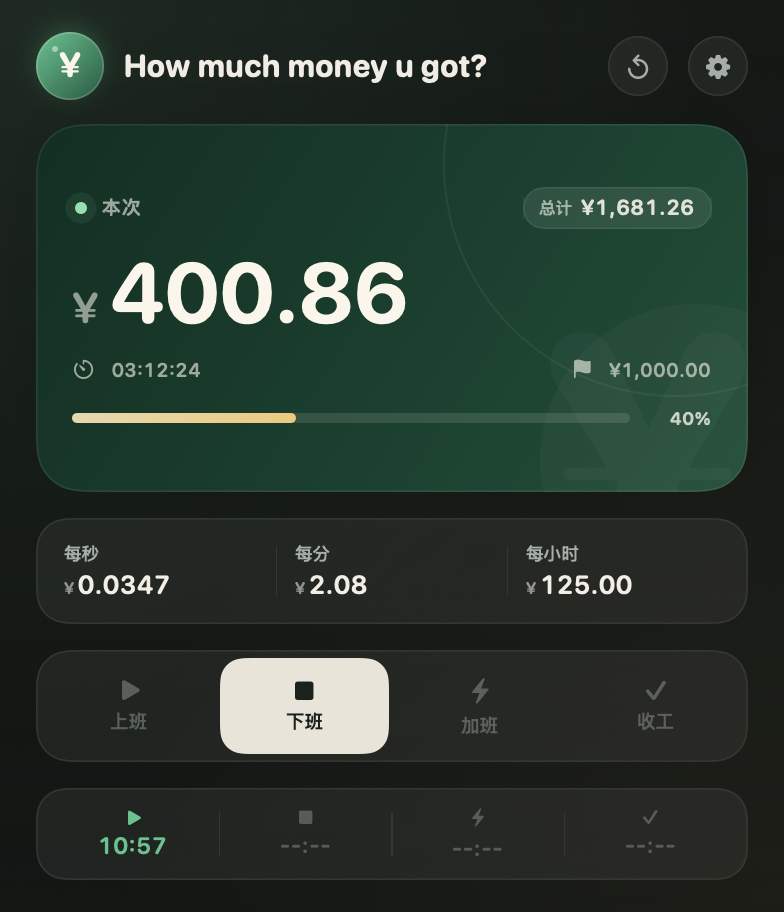
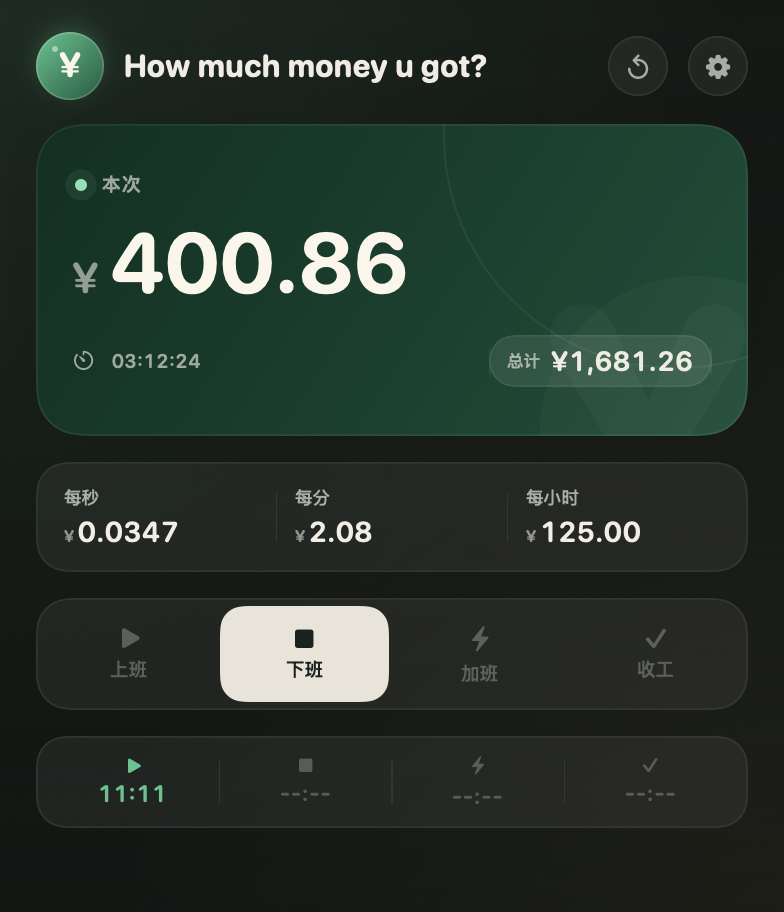
Keep persistent total visible across sessions

diff --git a/Sources/HowMuchApp/DashboardView.swift b/Sources/HowMuchApp/DashboardView.swift
@@ -72,8 +72,7 @@ struct DashboardView: View {
     // MARK: - Money
 
     private var heroCard: some View {
-        let progress = cardProgress
-        return ZStack {
+        ZStack {
             RoundedRectangle(cornerRadius: 23, style: .continuous)
                 .fill(
                     LinearGradient(
@@ -109,33 +108,8 @@ struct DashboardView: View {
                         .foregroundStyle(Palette.heroMuted)
 
                     Spacer(minLength: 4)
-
-                    HStack(spacing: 4) {
-                        Text(model.t(.totalLabel))
-                            .font(.system(size: 8.5, weight: .medium, design: .rounded))
-                            .foregroundStyle(Palette.heroMuted)
-                        Text(model.money(model.totalEarned))
-                            .font(.system(size: 10.5, weight: .semibold, design: .rounded).monospacedDigit())
-                            .foregroundStyle(Palette.heroText.opacity(0.88))
-                            .lineLimit(1)
-                            .minimumScaleFactor(0.72)
-                    }
-                    .padding(.horizontal, 8)
-                    .padding(.vertical, 4)
-                    .background(
-                        Capsule()
-                            .fill(Color.white.opacity(0.09))
-                            .overlay(
-                                Capsule()
-                                    .strokeBorder(Color.white.opacity(0.07), lineWidth: 0.7)
-                            )
-                    )
-                    .accessibilityElement(children: .ignore)
-                    .accessibilityLabel(
-                        "\(model.t(.totalLabel)) \(model.money(model.totalEarned))"
-                    )
                 }
-                .padding(.bottom, 6)
+                .padding(.bottom, 7)
 
                 HStack(alignment: .firstTextBaseline, spacing: 5) {
                     Text(model.currency.symbol)
@@ -147,7 +121,7 @@ struct DashboardView: View {
                         .lineLimit(1)
                         .minimumScaleFactor(0.55)
                 }
-                .padding(.bottom, 8)
+                .padding(.bottom, 12)
                 .accessibilityElement(children: .ignore)
                 .accessibilityLabel(
                     "\(model.t(.earnedThisSession)) \(model.money(snapshot.total))"
@@ -155,55 +129,46 @@ struct DashboardView: View {
 
                 HStack(spacing: 8) {
                     Label(Fmt.duration(snapshot.totalSeconds), systemImage: "timer")
+                        .font(.system(size: 9.5, weight: .medium, design: .rounded).monospacedDigit())
+                        .foregroundStyle(Palette.heroMuted)
+
                     Spacer(minLength: 6)
-                    Label(model.money(model.settings.dailyPay), systemImage: "flag.fill")
-                }
-                .font(.system(size: 9.5, weight: .medium, design: .rounded).monospacedDigit())
-                .foregroundStyle(Palette.heroMuted)
-                .padding(.bottom, 12)
-                .accessibilityElement(children: .ignore)
-                .accessibilityLabel(
-                    "\(model.t(.dailyTarget)) \(model.money(model.settings.dailyPay))"
-                )
 
-                HStack(spacing: 9) {
-                    GeometryReader { proxy in
-                        ZStack(alignment: .leading) {
-                            Capsule()
-                                .fill(Palette.heroText.opacity(0.12))
-                            Capsule()
-                                .fill(
-                                    LinearGradient(
-                                        colors: [Color(hex: 0xE9D8A9), Color(hex: 0xF3C873)],
-                                        startPoint: .leading,
-                                        endPoint: .trailing
-                                    )
-                                )
-                                .frame(width: max(0, proxy.size.width * min(progress, 1)))
-                        }
+                    HStack(spacing: 5) {
+                        Text(model.t(.totalLabel))
+                            .font(.system(size: 8.5, weight: .medium, design: .rounded))
+                            .foregroundStyle(Palette.heroMuted)
+                        Text(model.money(model.totalEarned))
+                            .font(.system(size: 13.5, weight: .semibold, design: .rounded).monospacedDigit())
+                            .foregroundStyle(Palette.heroText.opacity(0.94))
+                            .lineLimit(1)
+                            .minimumScaleFactor(0.7)
                     }
-                    .frame(height: 5)
-
-                    Text("\(Int(min(progress, 9.99) * 100))%")
-                        .font(.system(size: 9, weight: .semibold, design: .rounded).monospacedDigit())
-                        .foregroundStyle(Palette.heroText.opacity(0.78))
-                        .frame(width: 32, alignment: .trailing)
+                    .padding(.horizontal, 9)
+                    .padding(.vertical, 5)
+                    .background(
+                        Capsule()
+                            .fill(Color.white.opacity(0.09))
+                            .overlay(
+                                Capsule()
+                                    .strokeBorder(Color.white.opacity(0.08), lineWidth: 0.7)
+                            )
+                    )
+                    .accessibilityElement(children: .ignore)
+                    .accessibilityLabel(
+                        "\(model.t(.totalLabel)) \(model.money(model.totalEarned))"
+                    )
                 }
             }
             .padding(18)
         }
-        .frame(height: 184)
+        .frame(height: 156)
         .clipShape(RoundedRectangle(cornerRadius: 23, style: .continuous))
         .overlay(
             RoundedRectangle(cornerRadius: 23, style: .continuous)
                 .strokeBorder(Color.white.opacity(0.08), lineWidth: 0.8)
         )
         .shadow(color: Palette.shadow.opacity(0.5), radius: 15, x: 0, y: 8)
-    }
-
-    private var cardProgress: Double {
-        guard model.settings.dailyPay > 0 else { return 0 }
-        return max(0, snapshot.total / model.settings.dailyPay)
     }
 
     // MARK: - Rates

diff --git a/Sources/HowMuchApp/StatusBarController.swift b/Sources/HowMuchApp/StatusBarController.swift
@@ -93,7 +93,8 @@ final class StatusBarController: NSObject, NSPopoverDelegate {
     private func refresh() {
         guard let button = statusItem.button else { return }
         let snapshot = model.snapshot
-        let title = model.money(snapshot.total)
+        let allTimeTotal = model.money(model.totalEarned)
+        let title = allTimeTotal
 
         if lastCurrency != model.currency {
             button.image = statusImage(for: model.currency)
@@ -111,13 +112,13 @@ final class StatusBarController: NSObject, NSPopoverDelegate {
             .statusTooltip,
             AppMetadata.displayName,
             model.phaseTitle(snapshot.phase),
-            model.money(snapshot.total)
+            allTimeTotal
         )
         button.setAccessibilityValue(
             model.t(
                 .statusAccessibilityValue,
                 model.phaseTitle(snapshot.phase),
-                model.money(snapshot.total)
+                allTimeTotal
             )
         )
     }

diff --git a/Sources/HowMuchCore/AppMetadata.swift b/Sources/HowMuchCore/AppMetadata.swift
@@ -3,5 +3,5 @@ import Foundation
 /// Branding that must never be translated.
 public enum AppMetadata {
     public static let displayName = "How much money u got?"
-    public static let version = "1.3.0"
+    public static let version = "1.4.0"
 }

diff --git a/README.md b/README.md
@@ -10,10 +10,9 @@
 
 - **收入换算**：填写普通月薪、每月工作日、每日工时、加班时薪，自动换算成每秒 / 每分钟 / 每小时收入。
 - **实时累计**：正常上班与加班分别累计，金额精确到分，费率随当前处于正常或加班状态自动切换。
-- **记录不丢失**：下班或收工后再次上班，上一次收入会自动归入“总计”，本次从零重新累计；总计持久化保存。
+- **记录不丢失**：下班或收工后再次上班，上一次收入会自动归入“总计”；本次从零重新累计，但总计和菜单栏金额不会回落。
 - **完整打卡流程**：紧凑操作条中的上班、下班、加班、收工四个动作，覆盖一天的工作节奏。
-- **日薪目标进度**：用月薪 ÷ 每月工作日作为目标，实时显示今天完成了多少。
-- **菜单栏小组件**：右上角常驻显示实时金额，图标与符号会跟随货币切换；左键打开面板，右键可快速重置或退出。
+- **菜单栏小组件**：右上角常驻显示持久化的累计总计，图标与符号跟随货币切换；左键打开面板，右键可快速重置本次或退出。
 - **双语界面**：简体中文 / English 即时切换，面板、菜单栏提示、右键菜单、系统菜单与弹窗同步更新；应用名始终保持 **How much money u got?**。
 - **可选货币单位**：人民币、美元、欧元、英镑、日元、港币、韩元、新加坡元；切换只改变显示符号，不换算已填写的金额。
 - **状态自动恢复**：所有计时都基于真实时间戳，Mac 睡眠、退出应用后重新打开都会继续正确累计。
@@ -53,10 +52,10 @@ swift run HowMuch
 ## 使用
 
 1. 点击面板右上角的齿轮，选择语言、货币单位，并填写月薪、每月工作日、每日工时和加班时薪。
-2. 点击操作条中的 **上班**，金额开始实时累计。
+2. 点击操作条中的 **上班**，本次金额开始实时累计；面板右下角和菜单栏同时显示累计总计。
 3. 下班时点击 **下班**；如果需要加班，再点击 **加班**，加班时薪会立即生效。
 4. 加班结束点击 **收工**，本次计薪完成并保留结果。
-5. 再次点击 **上班** 会保留上一次收入并开启新的“本次”；右上角重置图标只清空本次，历史总计不受影响。
+5. 再次点击 **上班** 会保留上一次收入并开启新的“本次”；第一段收入已经计入总计，菜单栏数字不会归零。右上角重置图标只清空本次，历史总计不受影响。
 
 切换货币只会更新金额前的符号（例如 `¥` → `$`），不会自动换算数字。右击菜单栏图标可以直接打开面板、重置本次计薪或退出应用。
 
